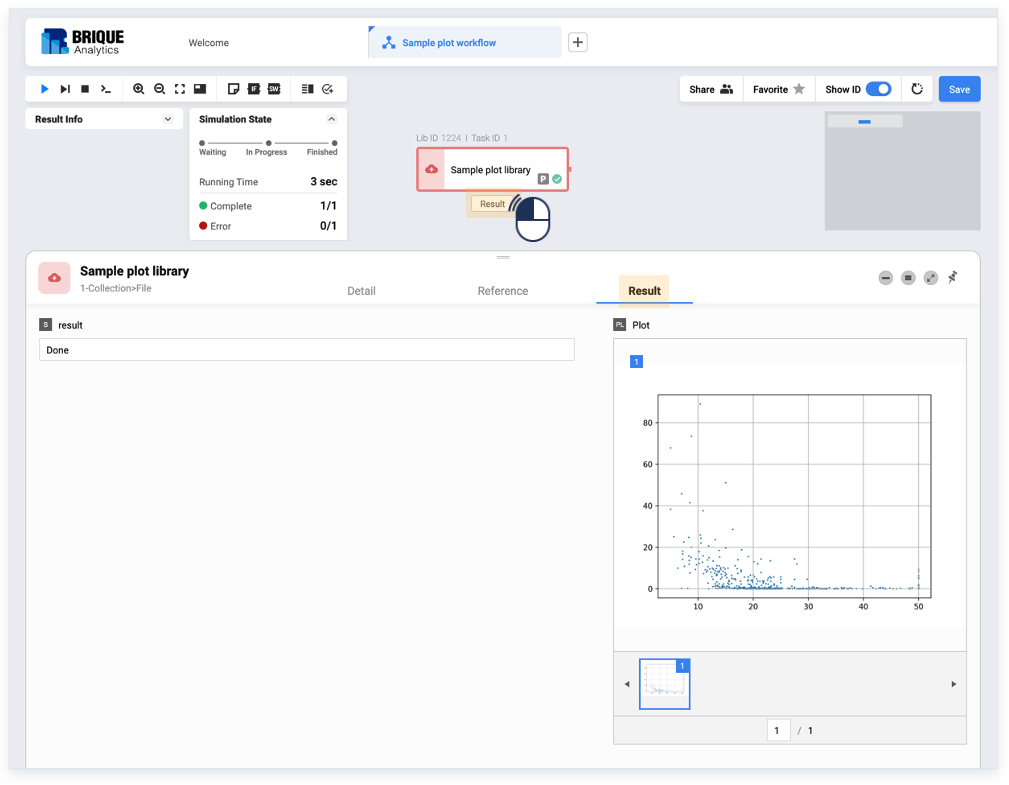
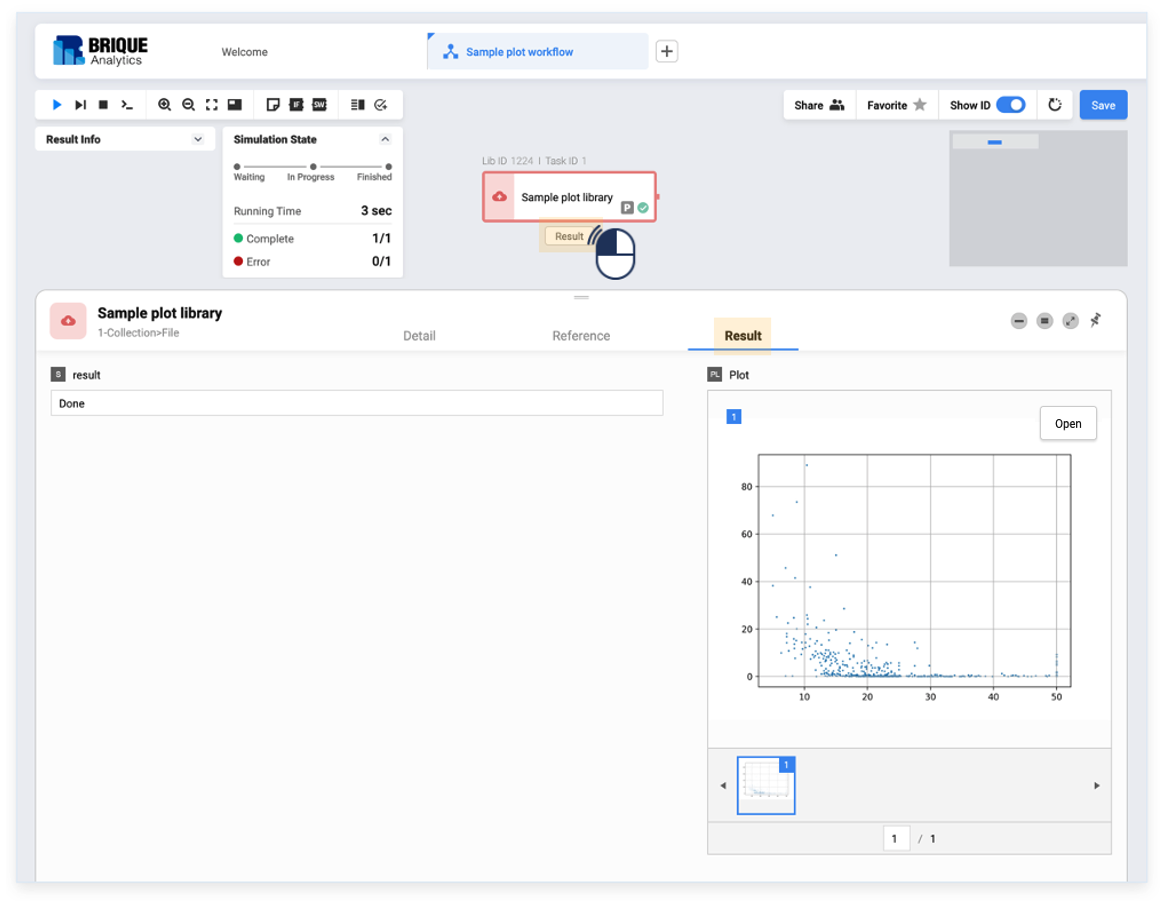
사용매뉴얼 업데이트

diff --git a/01-매뉴얼/02-사용매뉴얼/02.작성방법/01-02-02-작성방법_02_라이브러리_01_Plot생성_라이브러리작성.md b/01-매뉴얼/02-사용매뉴얼/02.작성방법/01-02-02-작성방법_02_라이브러리_01_Plot생성_라이브러리작성.md
@@ -11,6 +11,7 @@
 1. Plot 생성하는 스크립트 작성 방법
 2. 단일 Plot 생성
 3. 다수 Plot 생성
+4. HTML Plot 생성
 
 
 
@@ -55,13 +56,13 @@ plt.savefig('temp.jpg', dpi=350)
 
   
 
-- 하단의 Plot 이미지를 클릭하면 큰 창에서 확인 가능합니다
+- 하단 Plot 이미지 상단의 Open 버튼을 클릭하면 큰 창에서 확인 가능합니다
 
   ![image-20200617142448745](./img/작성방법_02_라이브러리_01_Plot생성_라이브러리작성-03.png)
 
 
 
-#### 2. 다수 Plot 생성
+#### 3. 다수 Plot 생성
 
 
 
@@ -75,3 +76,14 @@ plt.savefig('temp.jpg', dpi=350)
 
   ![image-20200617144008422](./img/작성방법_02_라이브러리_01_Plot생성_라이브러리작성-07.png)
 
+
+#### 4. HTML Plot 생성
+
+
+- R 또는 Python 라이브러리를 활용하여 HTML 형식으로 Plot을 생성할 수 있습니다
+
+  ![image-20200617144008422](./img/작성방법_02_라이브러리_01_Plot생성_라이브러리작성-08.png)
+
+- Open 버튼을 클릭하여 큰 화면에서 Plot을 조작할 수 있습니다
+
+  ![image-20200617144008422](./img/작성방법_02_라이브러리_01_Plot생성_라이브러리작성-09.png)
